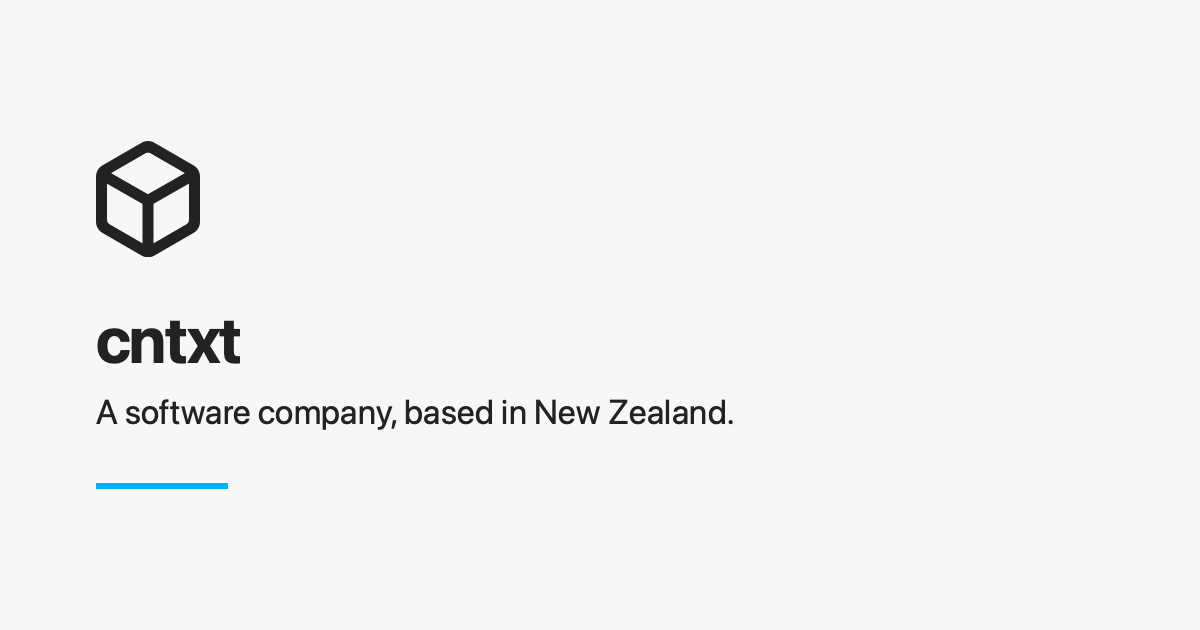
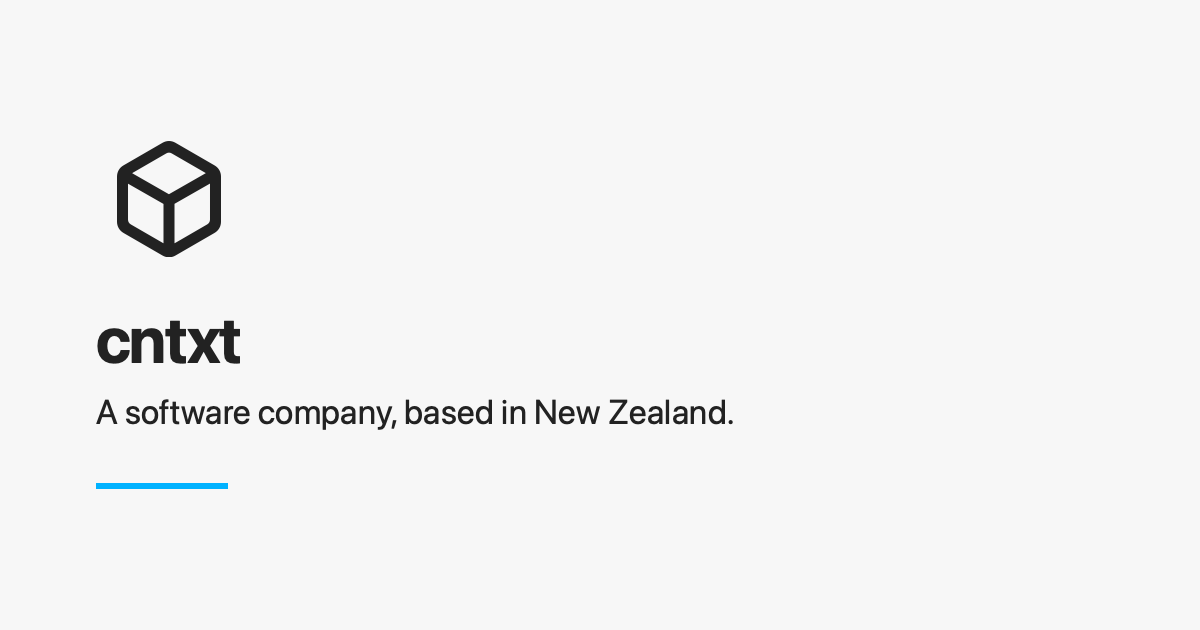
Keep the mark visible on phones, and centre it on the social card
A phone has no hover, so the mark never appeared there. Below 34rem it
now arrives on its own about three quarters of a second in, with the same
entrance the hover gives it on desktop, and keeps bobbing after. It holds
the text colour rather than the accent, since nothing is being pointed
at. Under reduced motion it is simply present and still.

Top padding on mobile doubles, 5em to 10em.

Desktop is untouched: the mark there is still hidden until hover, and the
padding is unchanged. Verified both at 390px and 1200px.

On the social card the cube is centred over the wordmark instead of
sharing its left edge.

Changed region(s): [[0.0617, 0.2111, 0.185, 0.4222]]

diff --git a/styles.css b/styles.css
@@ -59,7 +59,7 @@ body {
 
 @media (max-width: 34rem) {
 	body {
-		padding-top: 5em;
+		padding-top: 10em;
 	}
 }
 
@@ -205,6 +205,34 @@ a:focus-visible {
 @keyframes bob {
 	0%, 100% { translate: 0 0; }
 	50% { translate: 0 -5px; }
+}
+
+/* No hover on a phone, so the mark arrives on its own and stays. Same
+   entrance as the hover on desktop, then it keeps bobbing. Desktop is
+   untouched. */
+
+@keyframes markIn {
+	from {
+		opacity: 0;
+		transform: translateY(10px) scale(0.72) rotate(-150deg);
+	}
+	to {
+		opacity: 1;
+		transform: translateY(0) scale(1) rotate(0deg);
+	}
+}
+
+@media (max-width: 34rem) {
+	.mark {
+		color: var(--text);
+		animation: markIn 560ms cubic-bezier(0.34, 1.4, 0.64, 1) 700ms forwards,
+			bob 2.4s ease-in-out 1260ms infinite;
+	}
+
+	.titlelink:hover .mark,
+	.titlelink:focus-visible .mark {
+		color: var(--text);
+	}
 }
 
 .titlelink:link,
@@ -405,6 +433,13 @@ footer p {
 
 	.mark {
 		transform: none;
+	}
+
+	@media (max-width: 34rem) {
+		.mark {
+			animation: none;
+			opacity: 1;
+		}
 	}
 
 	.btn:hover {
